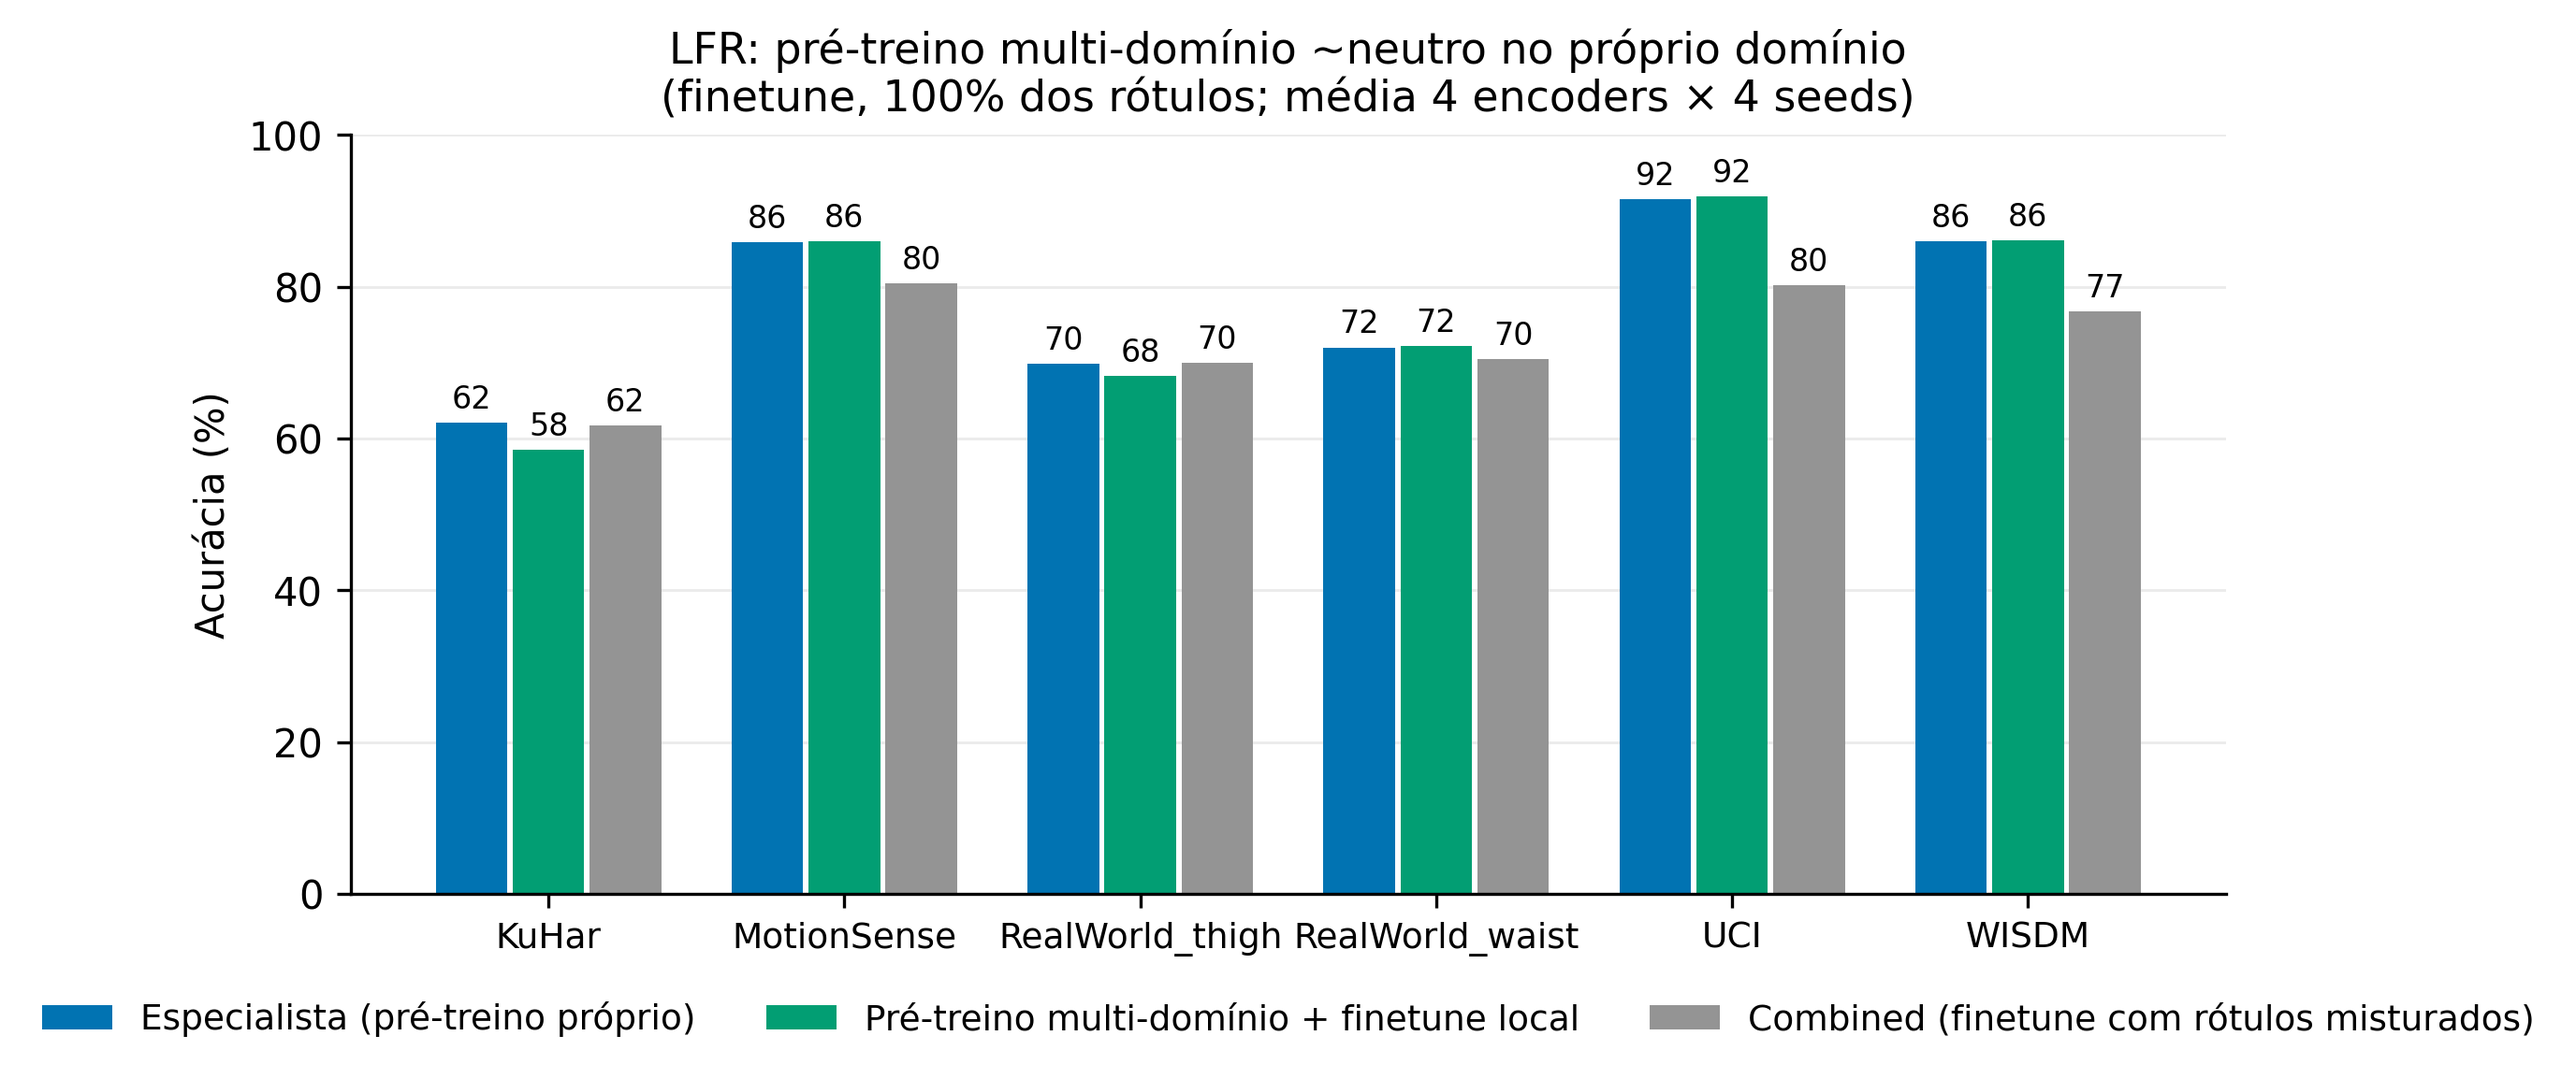
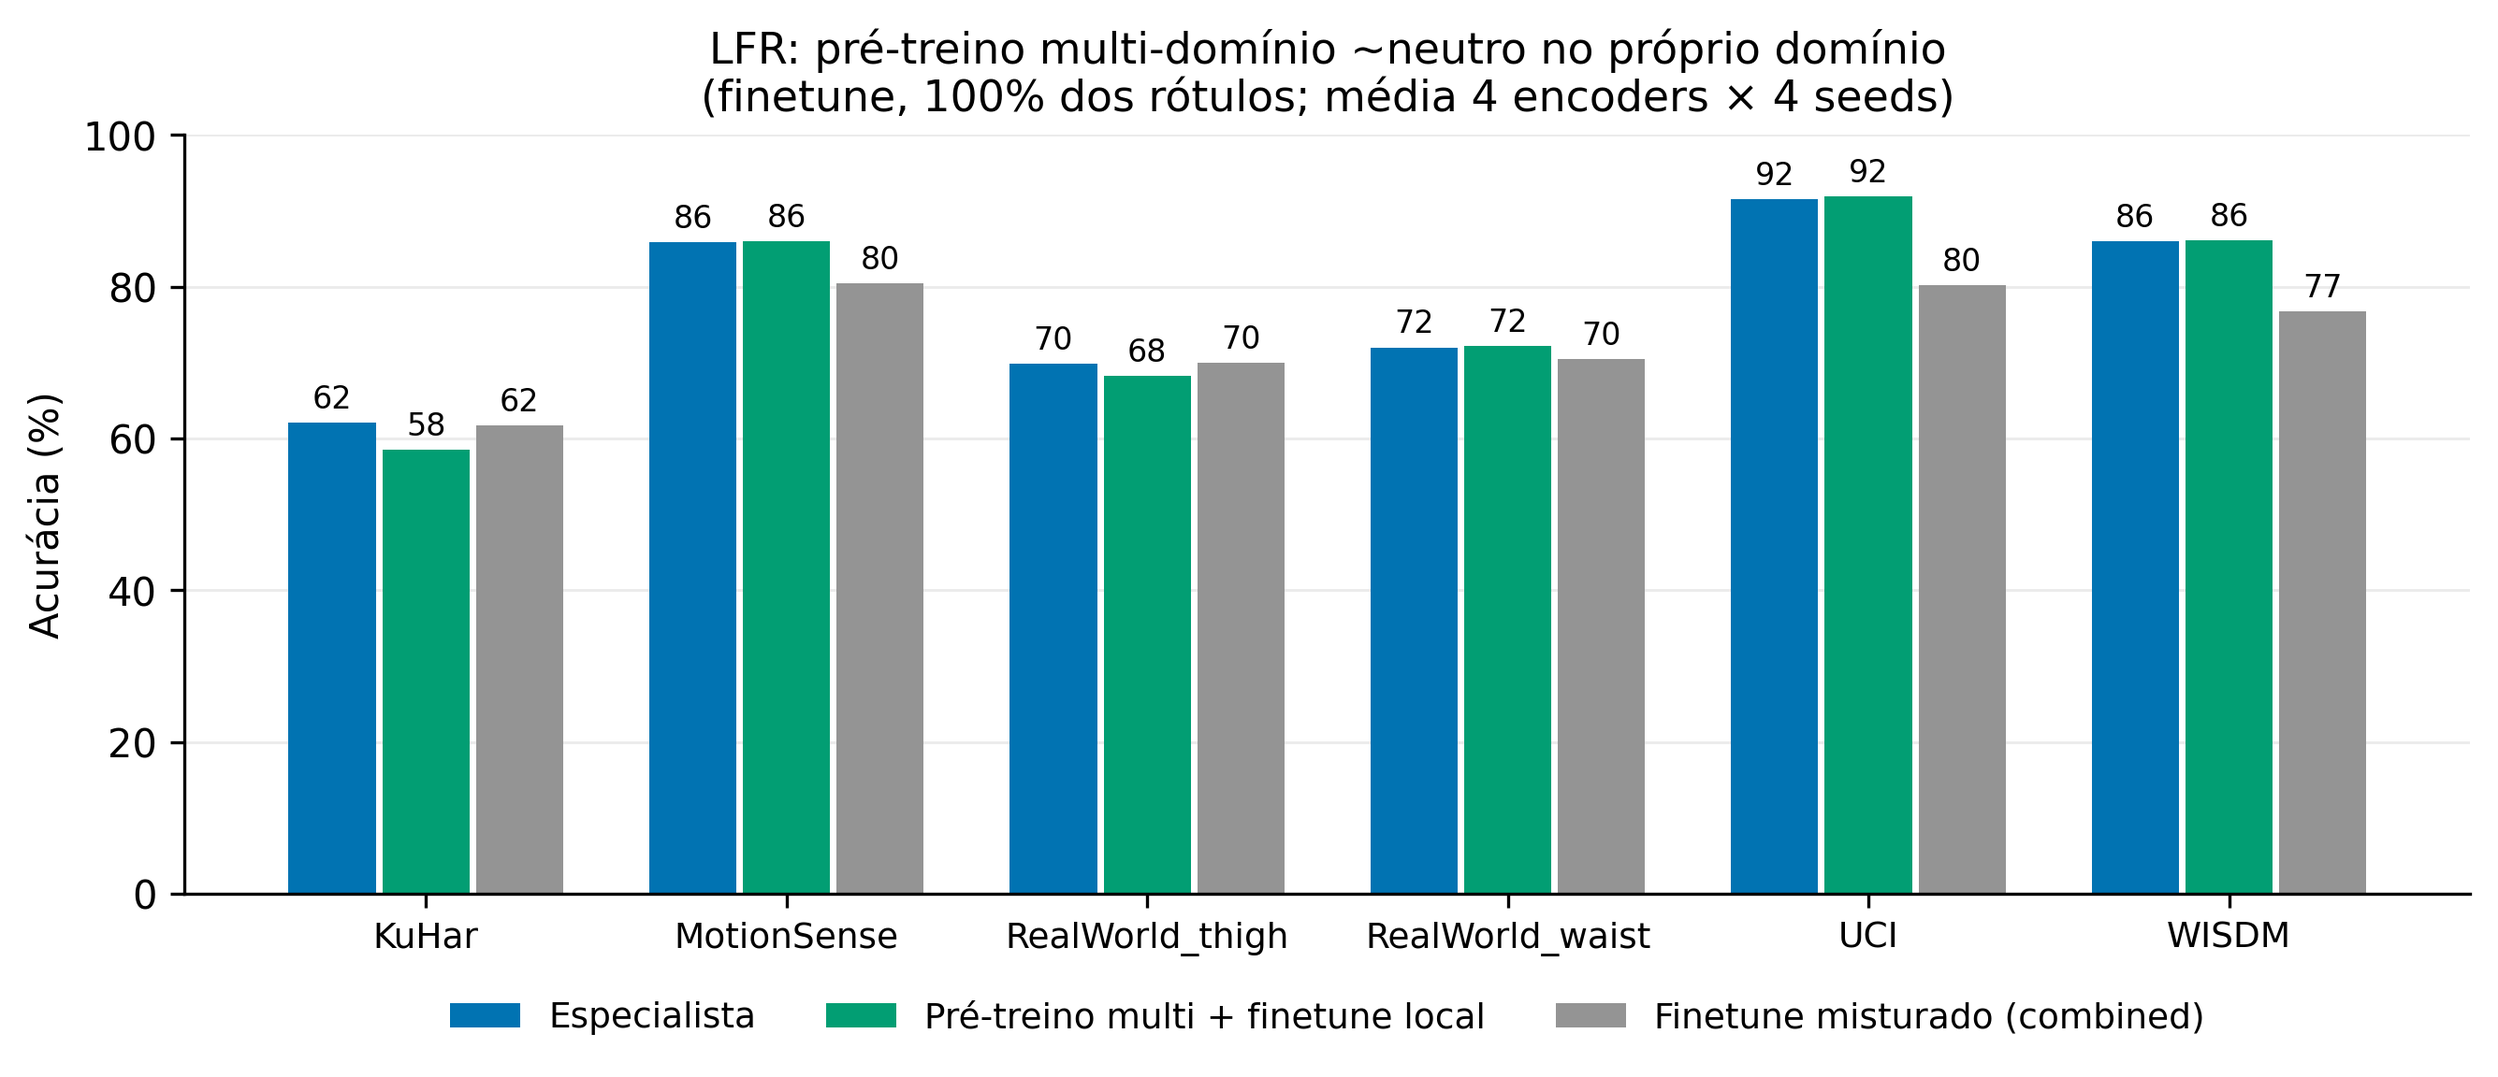
Apresentação: legendas curtas nas figs comb2target

diff --git a/scripts/analysis/build_presentation_assets.py b/scripts/analysis/build_presentation_assets.py
@@ -223,9 +223,9 @@ def fig_c2t(sheet, method="TF-C", fname="fig_tfc_comb2target.png",
     t = sheet.loc[method]
     fig, ax = plt.subplots(figsize=(9, 4))
     x, w = np.arange(len(t)), 0.26
-    cols = [("Especialista (%)", "#0173B2", "Especialista (pré-treino próprio)"),
-            ("Comb→target (%)", "#029E73", "Pré-treino multi-domínio + finetune local"),
-            ("Combined (%)", "#949494", "Combined (finetune com rótulos misturados)")]
+    cols = [("Especialista (%)", "#0173B2", "Especialista"),
+            ("Comb→target (%)", "#029E73", "Pré-treino multi + finetune local"),
+            ("Combined (%)", "#949494", "Finetune misturado (combined)")]
     for i, (c, color, label) in enumerate(cols):
         bars = ax.bar(x + (i - 1) * w, t[c], w * 0.93, color=color, label=label)
         ax.bar_label(bars, fmt="%.0f", fontsize=8, padding=2)
